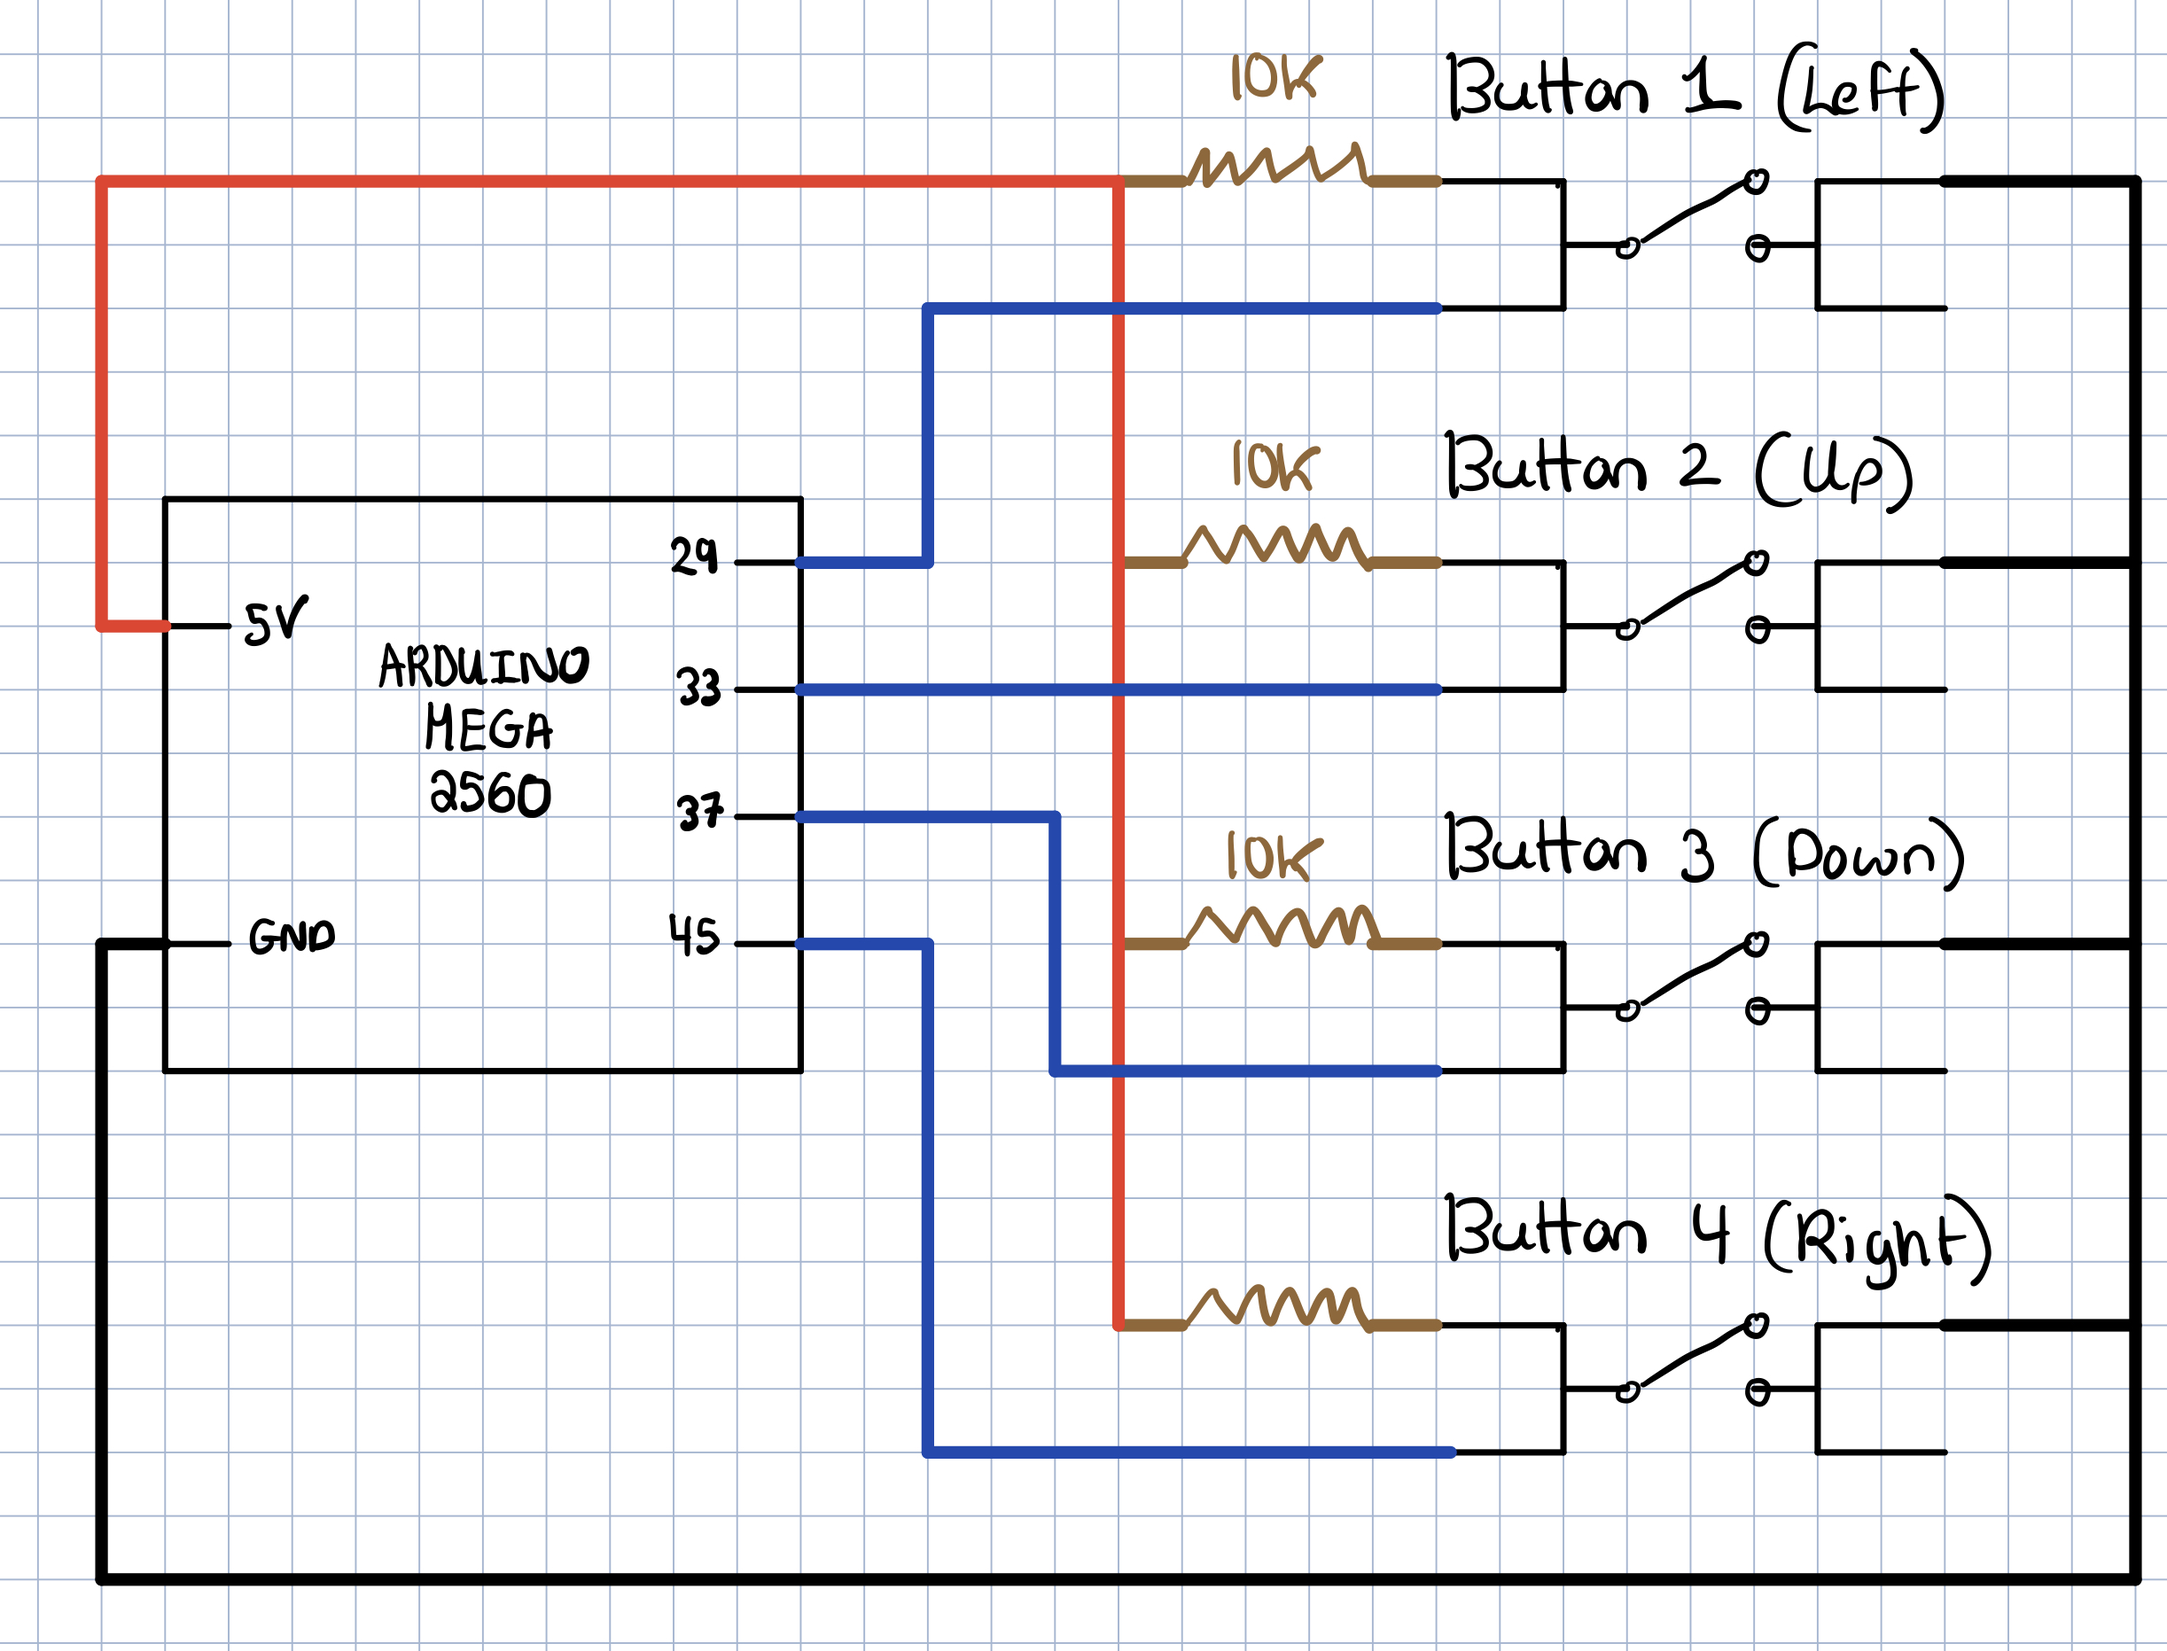
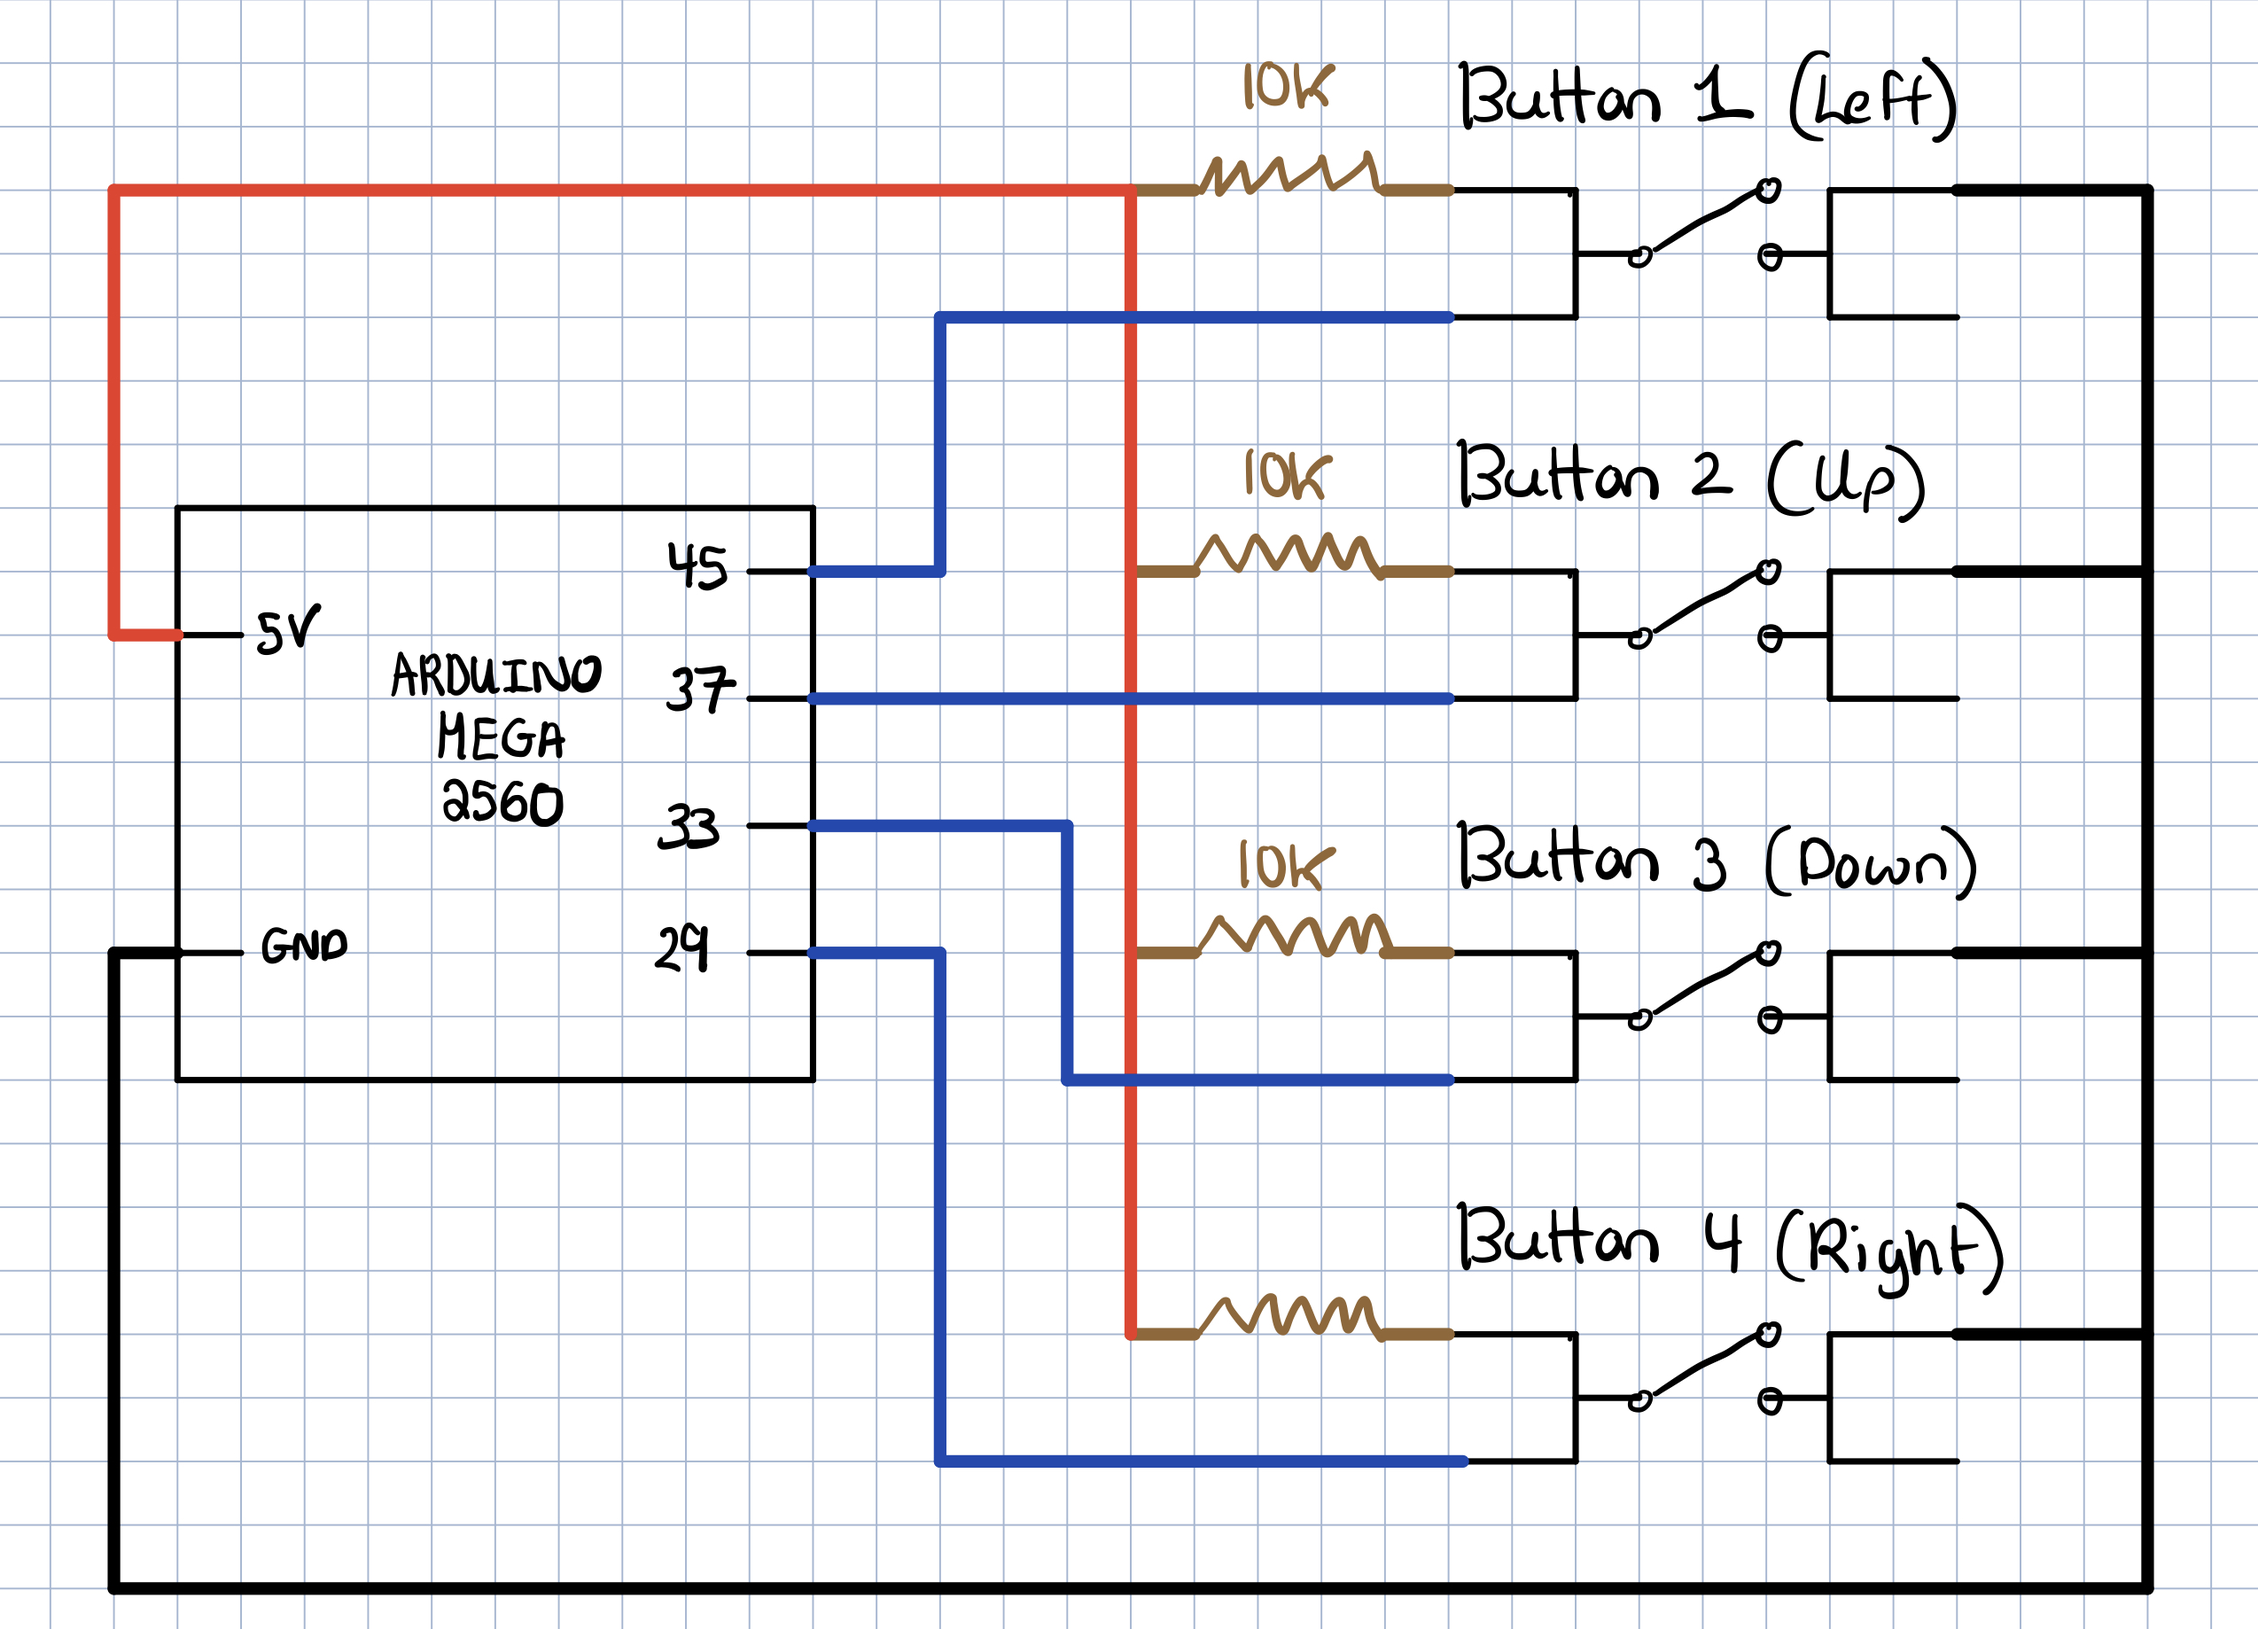
Version 1.1
Updated the Readme.

Changed region(s): [[0.0, 0.0, 1.0, 1.0]]

diff --git a/README.md b/README.md
@@ -28,7 +28,7 @@ The LCD displays the text input by the membrane switch module.
 |16-K|GND|GND|
 
 #### 1.1.3 Circuit Diagram
-![LCD Circuit](../photos/LCDCircuit.jpg?raw=true "LCD Circuit")
+![LCD Circuit](photos/LCDCircuit.jpg?raw=true "LCD Circuit")
 
 ### 1.2 Number Pad
 
@@ -49,7 +49,7 @@ The LCD displays the text input by the membrane switch module.
 |col 4|pin 50|
 
 #### 1.2.3 Circuit Diagram
-![Membrane Numberpad Circuit](../photos/NumberpadCircuit.jpg?raw=true "Membrane Numberpad Circuit")
+![Membrane Numberpad Circuit](photos/NumberpadCircuit.jpg?raw=true "Membrane Numberpad Circuit")
 
 ### 1.3 Buttons
 
@@ -64,16 +64,16 @@ Pull buttons are used to mimic 4 arrow keys.
 #### 1.3.2 Connections
 |Buttons|Arduino Pin|
 |:------------------:|:------------------:|
-|Button 1 (Left)|pin XX|
-|Button 2 (Up)|pin XX|
-|Button 3 (Down)|pin XX|
-|Button 4 (Right)|pin XX|
+|Button 1 (Left)|pin 45|
+|Button 2 (Up)|pin 37|
+|Button 3 (Down)|pin 33|
+|Button 4 (Right)|pin 29|
 
 #### 1.3.3 Circuit Diagram
-![Buttons Circuit](../photos/ButtonCircuit.jpg?raw=true "Buttons Circuit")
+![Buttons Circuit](/photos/ButtonCircuit.jpg?raw=true "Buttons Circuit")
 
 ## 2.0 BUILD INSTRUCTIONS
 All the files in this project are in C++. The uploaded build works in VSCode with the [PlatformIO IDE](https://platformio.org/) add in.  To install PlatformIO you will need to install the ArduinoIDE and the Visual Studio Code plugin for PlatformIO. Instructions on how to install these programs can be found [here](https://www.youtube.com/watch?v=dany7ae_0ks).
 
 ## 3.0 FURTHER READING
-For more information on how to wire the circuits to the Arduino DroneBot Workshop has several YouTube tutorials on the [Matrix Keypad](https://www.youtube.com/watch?v=vl1-R6NsejM&t=1343s) and the [LCD1602](https://www.youtube.com/watch?v=wEbGhYjn4QI&t=568s). Paul McWhorter also has a useful YouTube video on how the [pull buttons](https://www.youtube.com/watch?v=AgQW81zzR18) work.
+For more information on how to wire the circuits to the Arduino, DroneBot Workshop has several YouTube tutorials on the [Matrix Keypad](https://www.youtube.com/watch?v=vl1-R6NsejM&t=1343s) and the [LCD1602](https://www.youtube.com/watch?v=wEbGhYjn4QI&t=568s). Paul McWhorter also has a useful YouTube video on how the [pull buttons](https://www.youtube.com/watch?v=AgQW81zzR18) work.
